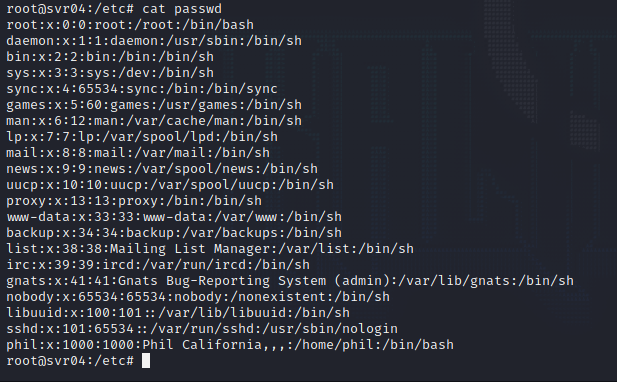
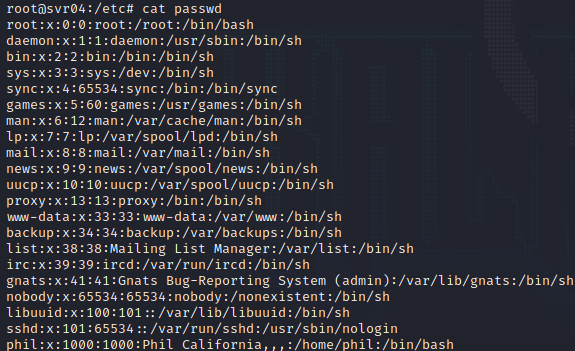
updates
updates

Changed region(s): [[0.0, 0.0, 1.0, 1.0]]

diff --git a/_posts/2021-7-13-HoneypotPT1.md b/_posts/2021-7-13-HoneypotPT1.md
@@ -58,7 +58,7 @@ All other attempts that are not those provided above do not establish an SSH ses
 /var/log/cowrie - if you do not follow the recommendations within the docs
 ```
 
-![_config.yml]({{ site.baseurl }}/images/honeypots/cowrie_logs.jpg)
+![_config.yml]({{ site.baseurl }}/images/honeypots/cowrie_logs.png)
 
 Within the logs you are able to see the IP of the attacker, username/password attempted, successful or not, and the commands ran. Cowrie also does emulate other systems to make it appear that the whole network is accessible to the attacker as well as an internet connection. I pinged Googles IP and as well tried to install Nmap on the system, but you were not able to execute the command.
 
@@ -78,7 +78,7 @@ You can also explore the file system and also take a look at fake users
 
 ![_config.yml]({{ site.baseurl }}/images/honeypots/cowrie_explore1.png)
 
-![_config.yml]({{ site.baseurl }}/images/honeypots/cowrie_passwdcontents.jpg)
+![_config.yml]({{ site.baseurl }}/images/honeypots/cowrie_passwdcontents.png)
 
 ### Honey Tokens
 
